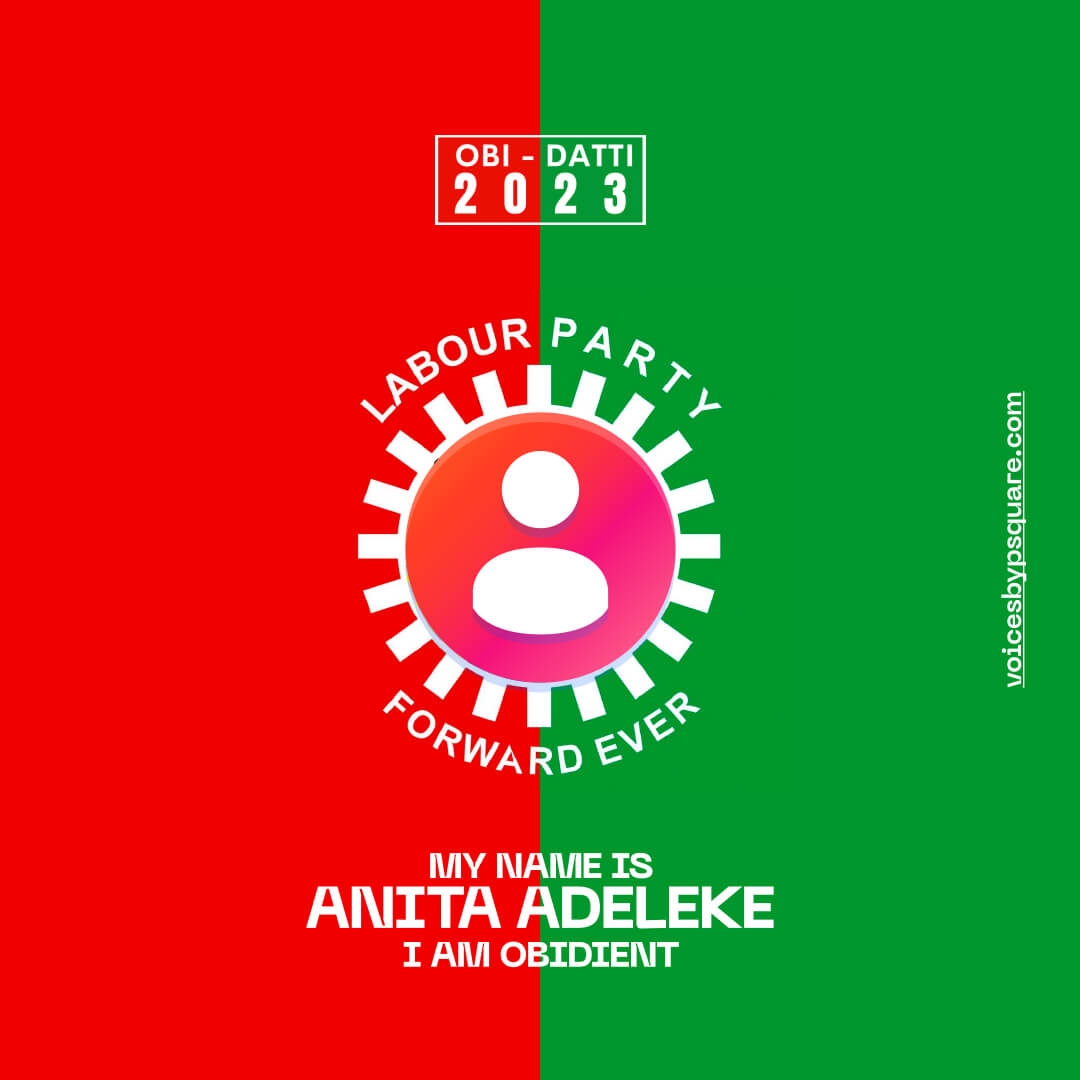
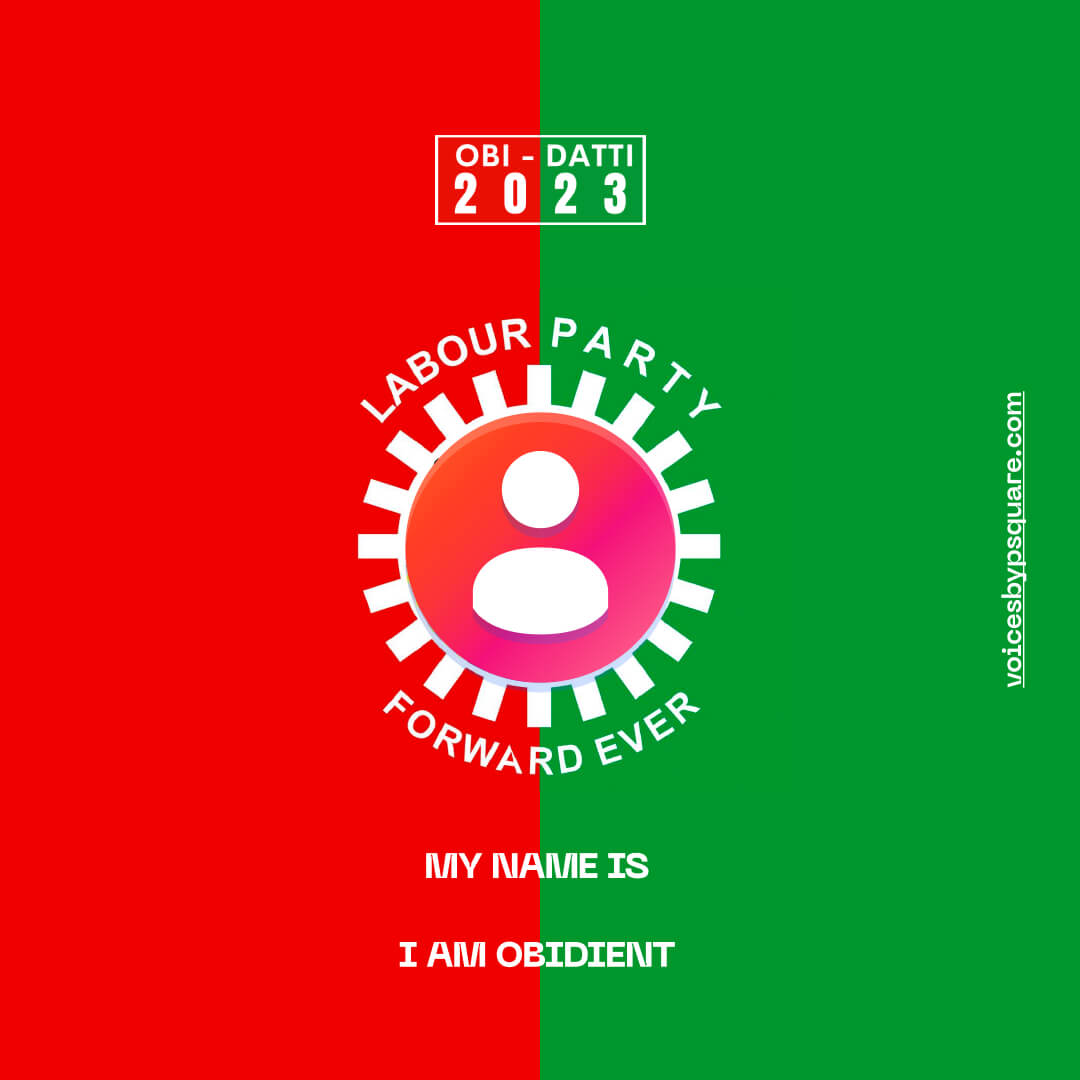
fixes

Changed region(s): [[0.275, 0.7639, 0.7333, 0.9167]]

diff --git a/src/components/cardSection/assets/css/index.css b/src/components/cardSection/assets/css/index.css
@@ -346,7 +346,7 @@
 .peterObiCard7 #card.resize .name .hiddenName {
     display: block;
     position: absolute;
-    top: 90%;
+    top: 98%;
     width: 100%;
     line-height: 48px;
     height: 48px;
@@ -364,8 +364,8 @@
 
 @media only screen and (min-width:960px) {
     .peterObiCard7 .name {
-        top: 79.1% !important;
-        font-size: 1.3vw;
+        top: 81.1% !important;
+        font-size: 1vw;
     }
 }
 
@@ -428,8 +428,8 @@
 
 @media only screen and (min-width:960px) {
     .peterObiCard8 .name {
-        top: 82.1% !important;
-        font-size: 1.3vw;
+        top: 83.1% !important;
+        font-size: 1vw;
     }
 }
 
@@ -447,7 +447,7 @@
 }
 
 .peterObiCard9 .name {
-    top: 81.1%;
+    top: 82.1%;
     bottom: 19.5%;
     font-size: 3.9vw;
     text-align: center;
@@ -484,6 +484,20 @@
     height: 280px;
     top: 407px;
     left: 400px;
+}
+
+.peterObiCard11 #card.resize .name {
+    display: block;
+    top: 82.8%;
+    font-size: 65px;
+    text-align: center
+}
+
+.peterObiCard11 .name {
+    top: 79.5%;
+    bottom: 19.5%;
+    /* font-size: 1.9vw; */
+    text-align: center;
 }
 
 /* ------------------------------------------------------ */

diff --git a/src/components/cardSection/assets/CardData.jsx b/src/components/cardSection/assets/CardData.jsx
@@ -116,7 +116,8 @@ export const data = [
         candidateImg: PetrObi,
         candidateName: 'Peter Obi',
         card: obi10,
-        needImg: true
+        needImg: true,
+        name: true
     }
 
 ]
